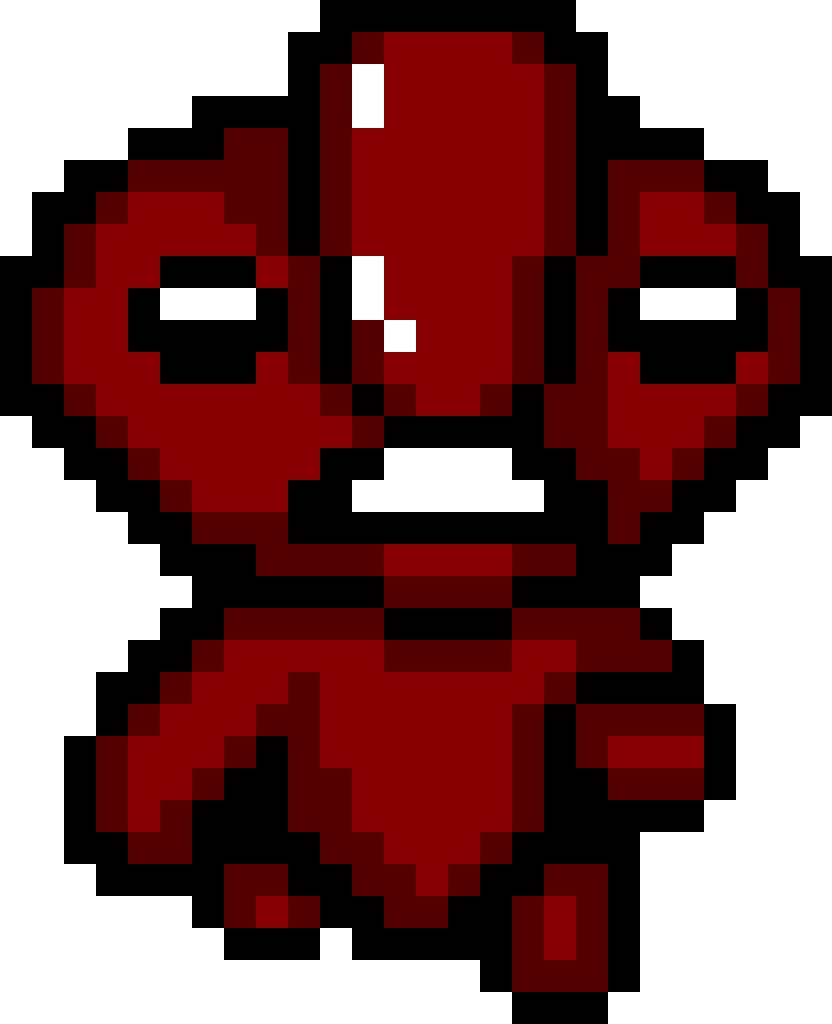
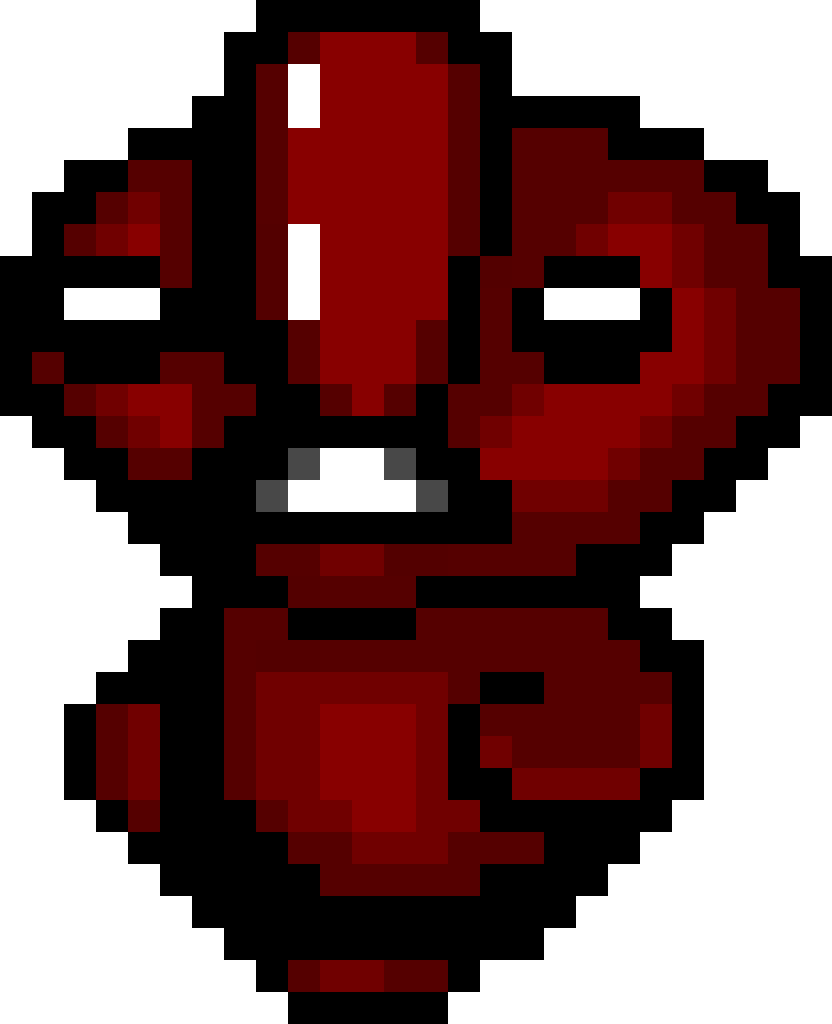
dodao red-a

diff --git a/map.cpp b/map.cpp
@@ -93,7 +93,7 @@ void Map::loadTexture(void)
     int i;
     player->loadTexture("stone_guy/stone_guy");
     //player2->loadTexture("grim/grim");
-    player2->loadTexture("who/who");
+    player2->loadTexture("red/red");
     inventory->loadTexture();
     for(i = 0; i < this->tile.size(); i++)
         this->tile[i]->loadTexture();

diff --git a/enemy.cpp b/enemy.cpp
@@ -83,7 +83,7 @@ void Enemy::loadTexture()
             }
             break;
         case ENEMY_TYPE_BOZA:
-            Player::loadTexture("red/red");
+            Player::loadTexture("boza/boza");
             break;
     }
 
